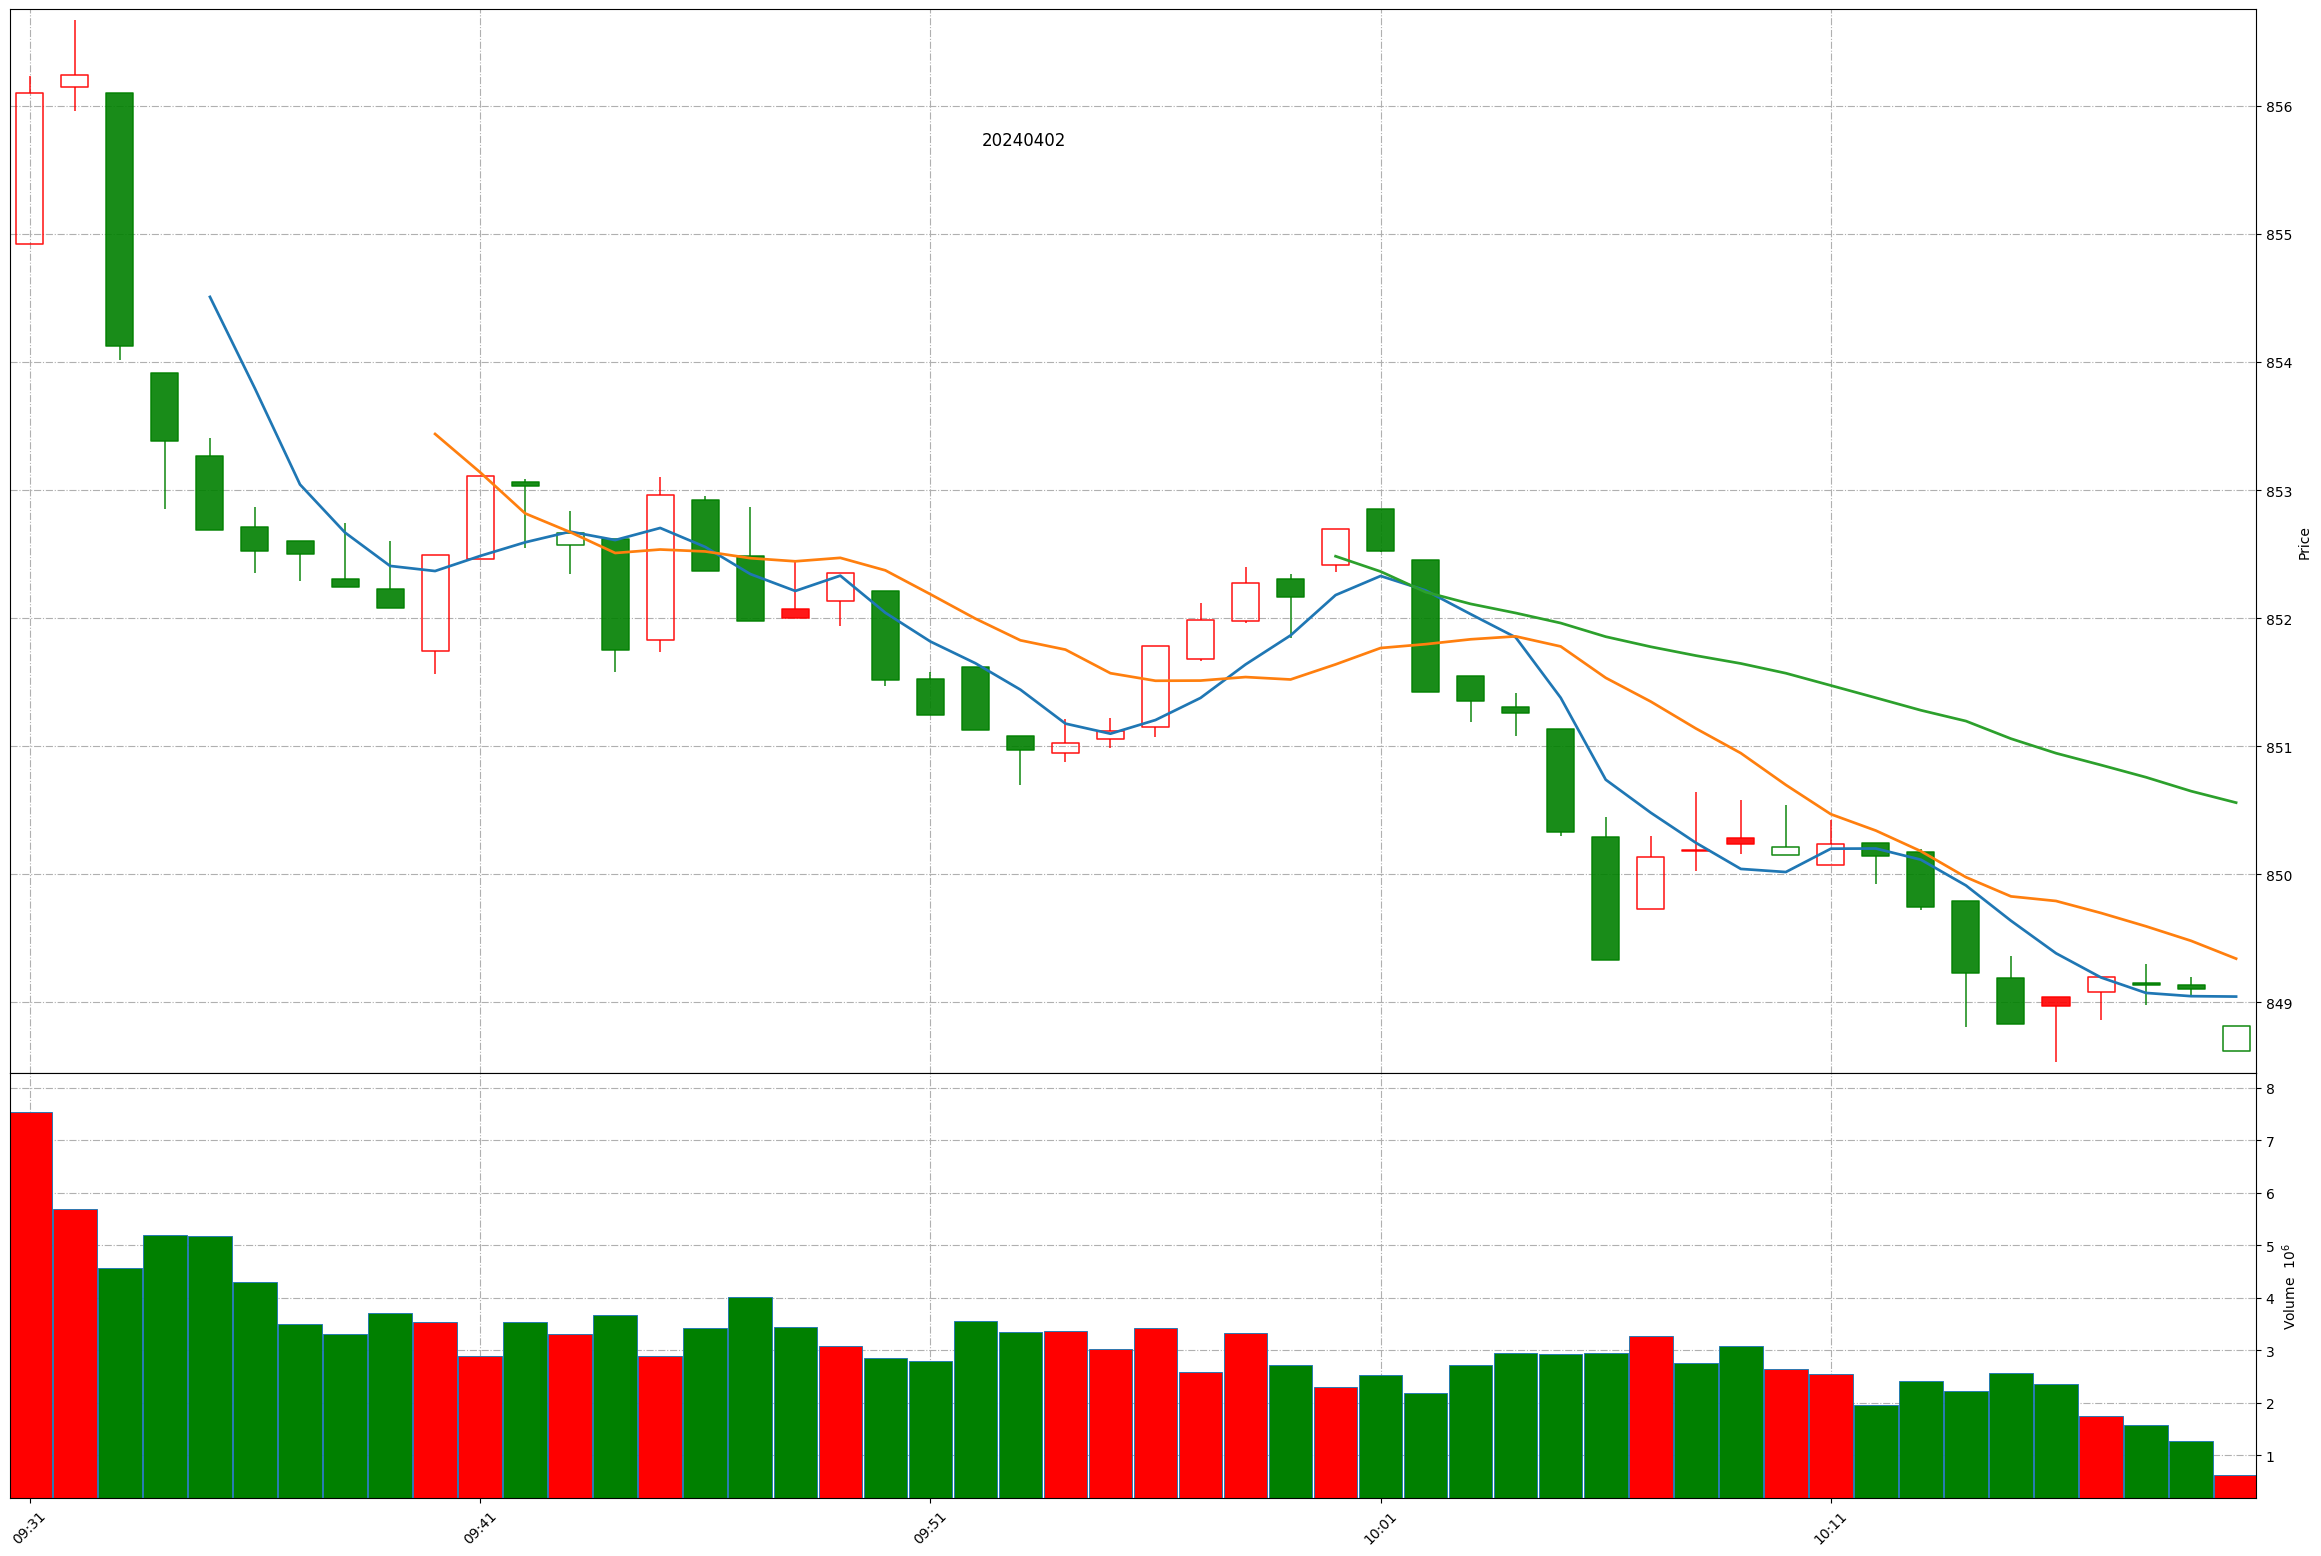
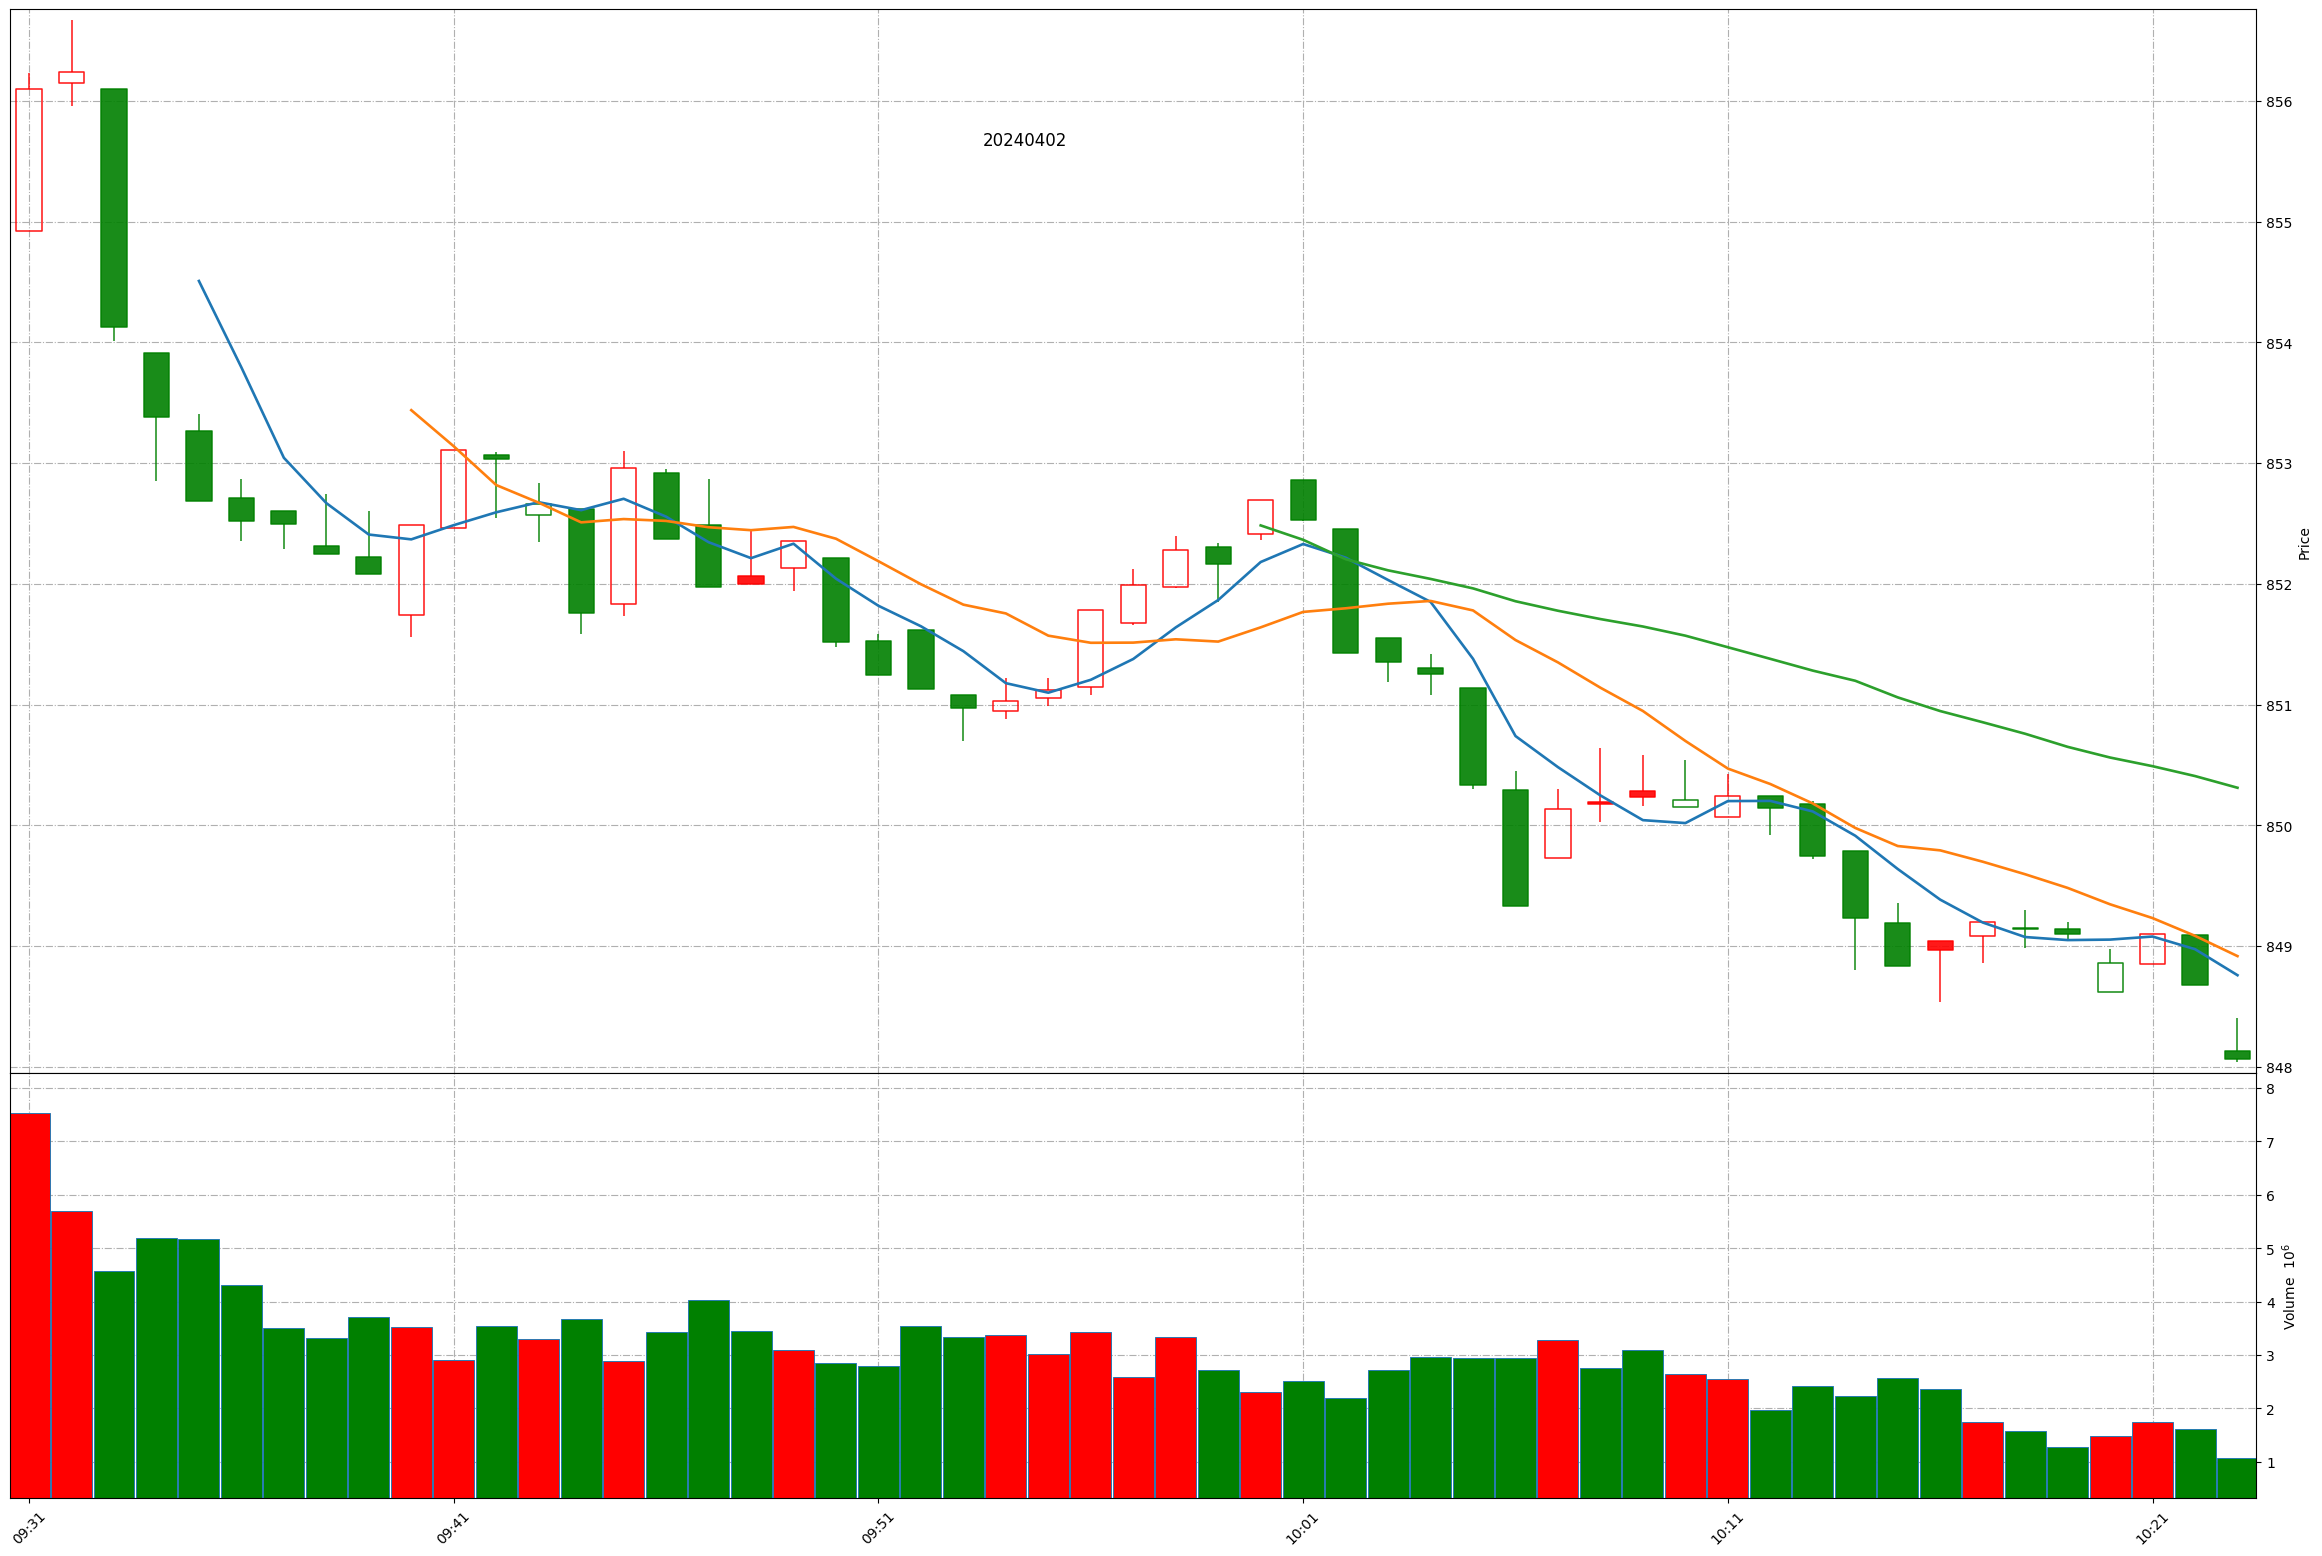
Github action update at 2024-04-02 10:22:55.

diff --git a/README.md b/README.md
@@ -1,11 +1,11 @@
 
 # Daily-A-share-market-quotes 每日 A 股指数（5min 更新）- 20240402
 
-### 上证指数 20240402 10:19
+### 上证指数 20240402 10:22
 ![](./fig/2024/4/20240402-sh000001.png)
 
-### 深证成指 20240402 10:19
+### 深证成指 20240402 10:22
 ![](./fig/2024/4/20240402-sz399001.png)
 
-### 北证50 20240402 10:19
+### 北证50 20240402 10:22
 ![](./fig/2024/4/20240402-bj899050.png)
